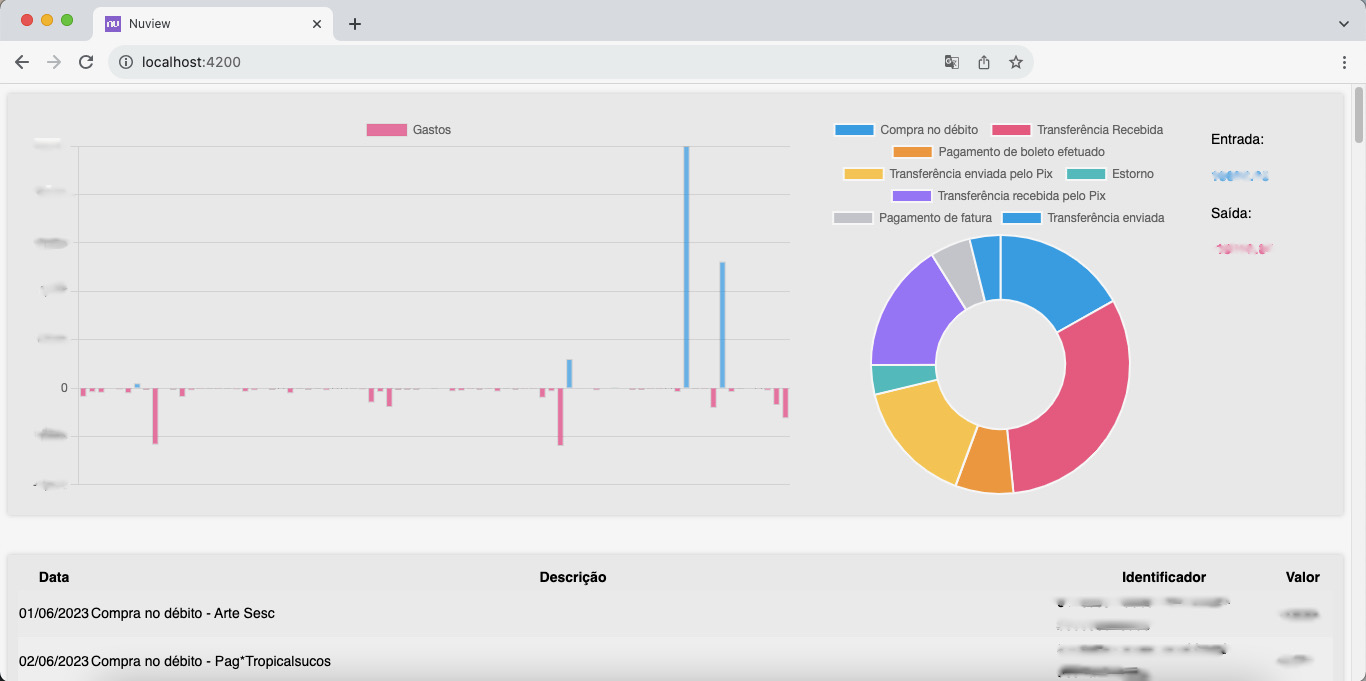
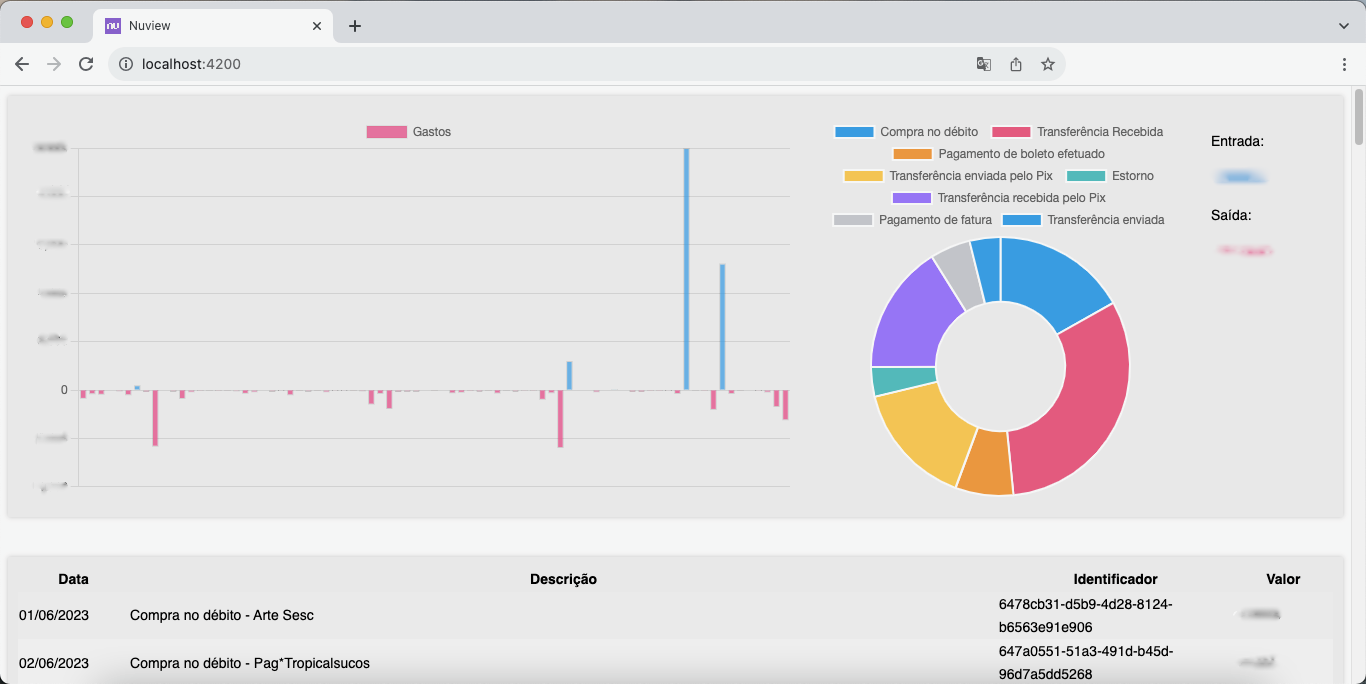
adding padding on cell

diff --git a/src/app/csv-viewer/csv-viewer.component.css b/src/app/csv-viewer/csv-viewer.component.css
@@ -3,6 +3,7 @@
   line-height: 1.625;
   font-family: Nunito, sans-serif;
 }
+
 .even-row {
   background-color: #f2f2f2;
 }
@@ -10,6 +11,7 @@
 .odd-row {
   background-color: #f6f6f6;
 }
+
 .info-box {
   flex: 0 0 100%;
   background-color: #f0f0f0;
@@ -24,9 +26,11 @@
   margin-top: 10px;
   box-shadow: 0 0 5px rgba(0, 0, 0, 0.2);
 }
+
 td {
   border: none;
 }
+
 table {
   border-collapse: collapse;
   border: none;

diff --git a/src/app/csv-viewer/csv-viewer.component.html b/src/app/csv-viewer/csv-viewer.component.html
@@ -11,7 +11,7 @@
         </thead>
         <tbody>
           <tr *ngFor="let row of csvData; let even = even" [ngClass]="{ 'even-row': even, 'odd-row': !even }">
-            <td *ngFor="let cell of row | keyvalue">{{ cell.value }}</td>
+            <td style="padding-right: 40px;" *ngFor="let cell of row | keyvalue">{{ cell.value }}</td>
           </tr>
         </tbody>
       </table>

diff --git a/src/app/chart/chart.component.css b/src/app/chart/chart.component.css
@@ -2,6 +2,7 @@
     flex-grow: 1;
     padding: 10px;
 }
+
 .chart {
     display: flex;
     background-color: #f0f0f0;
